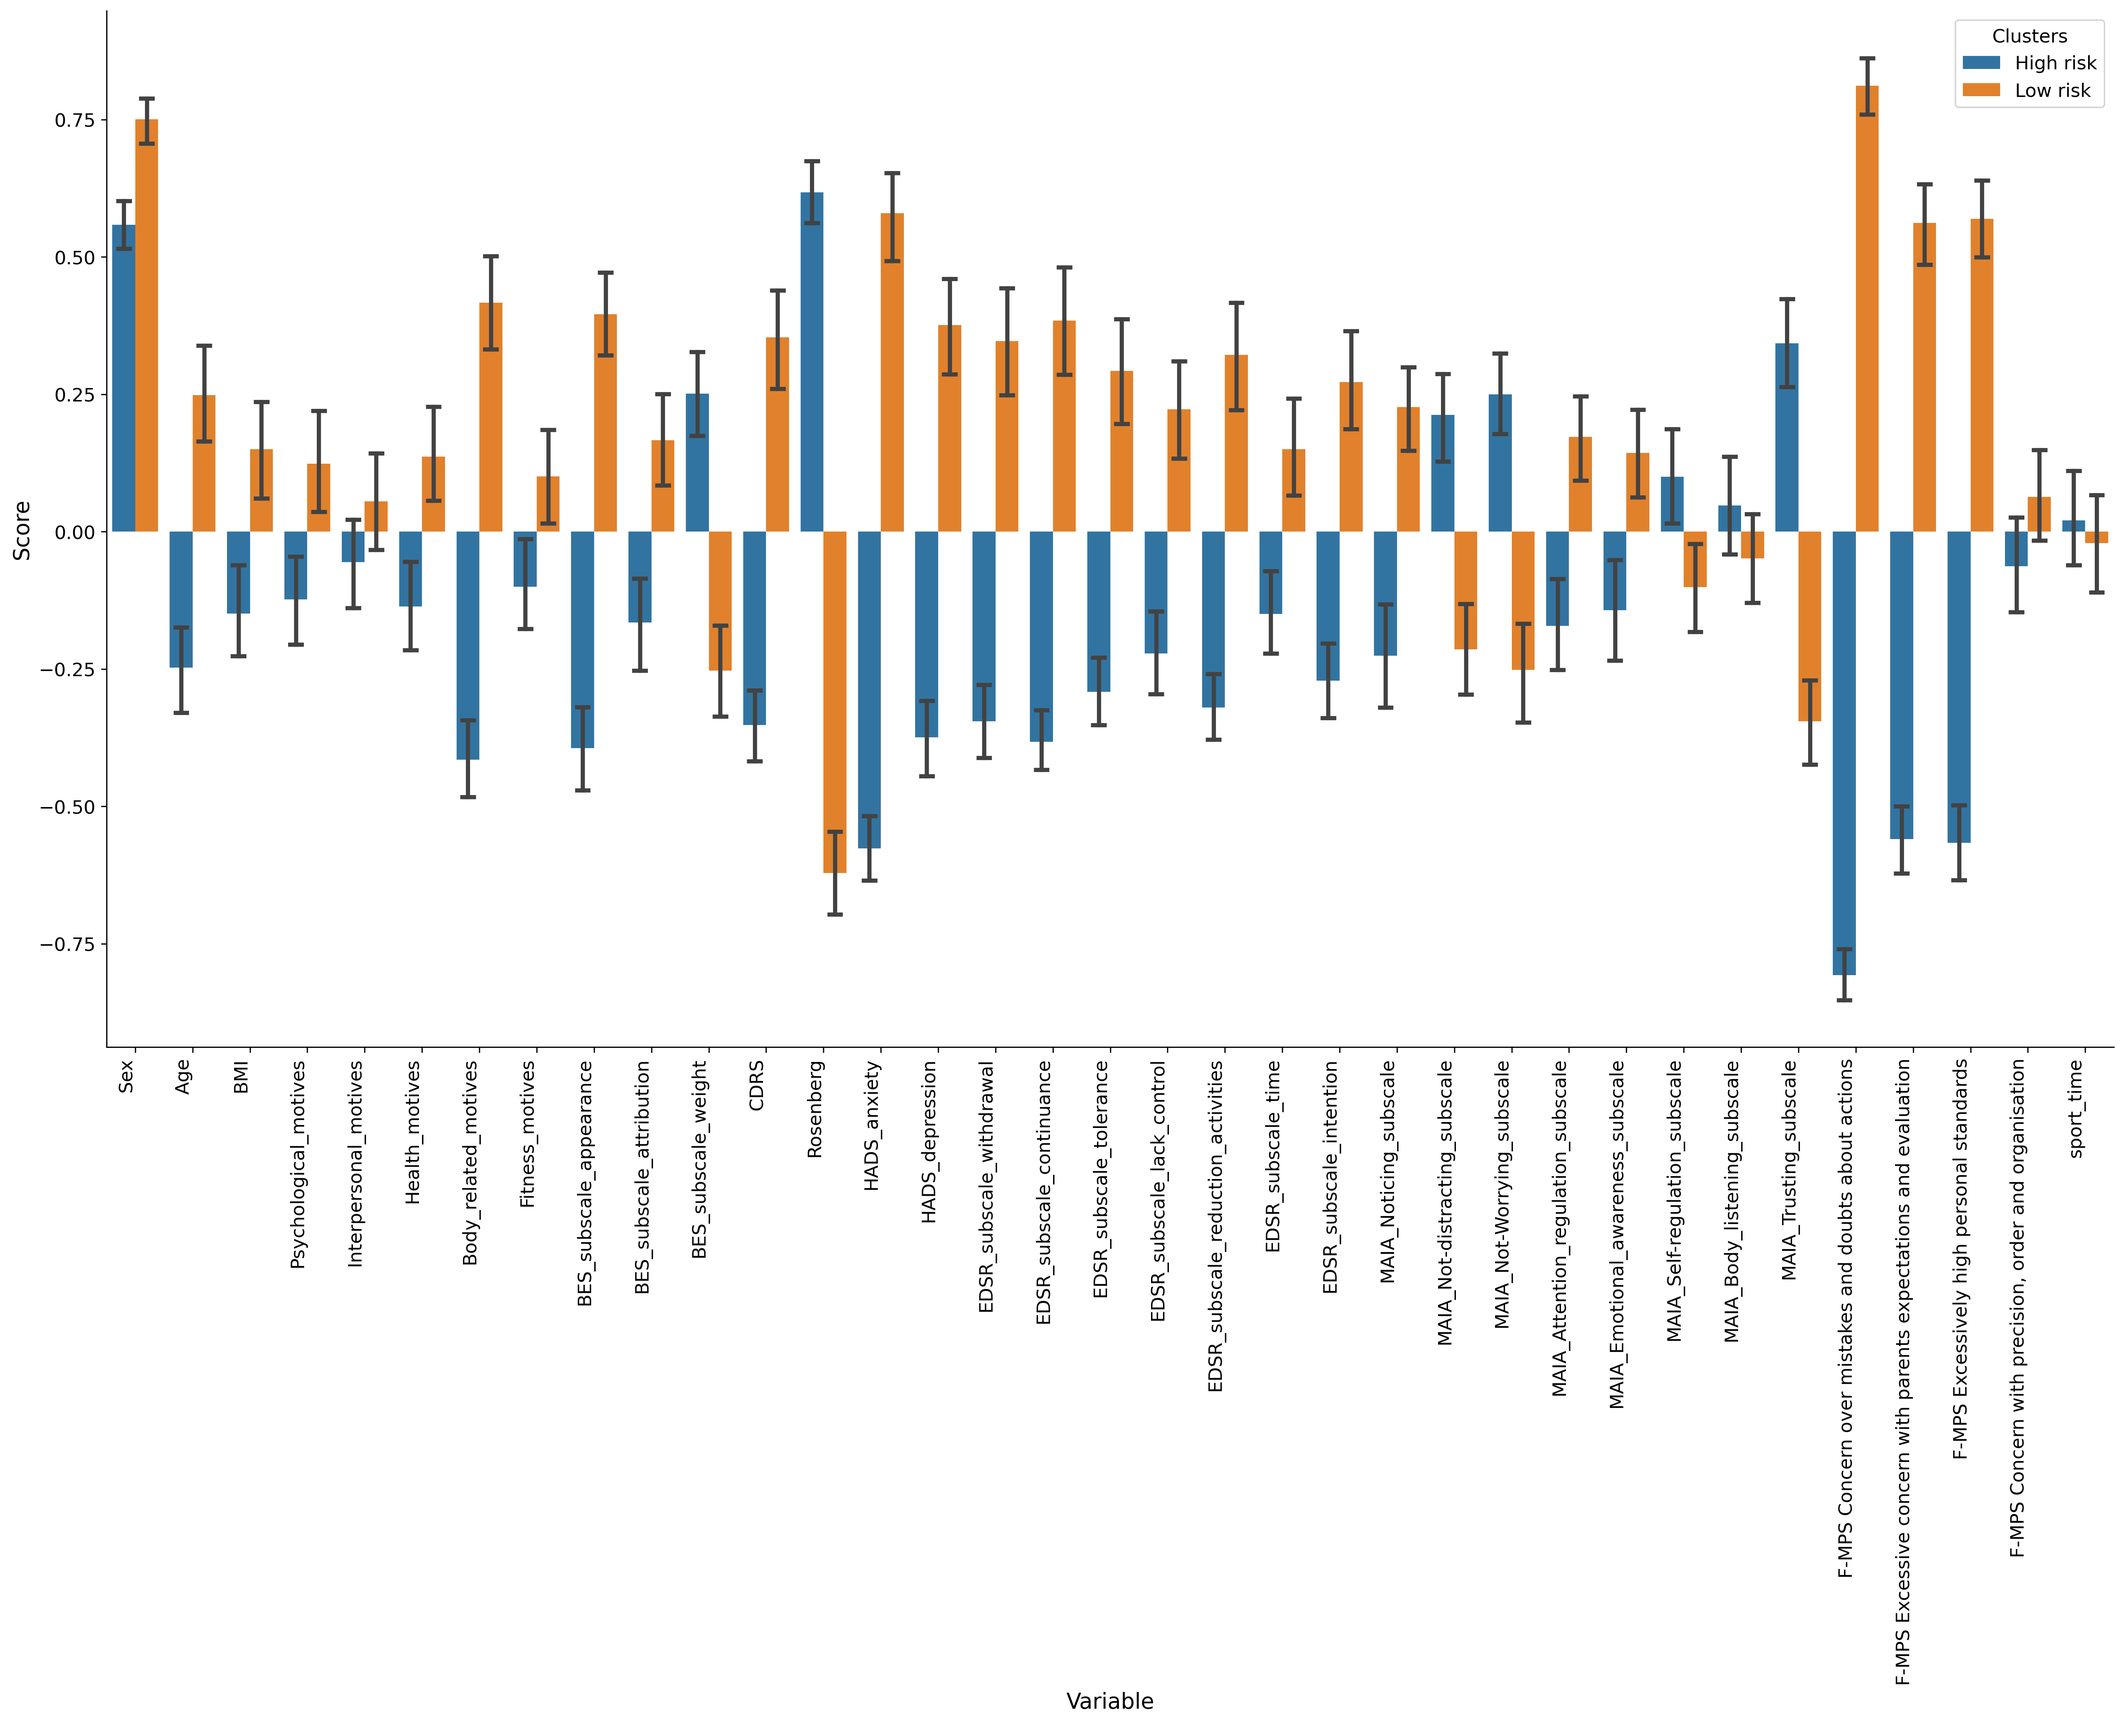
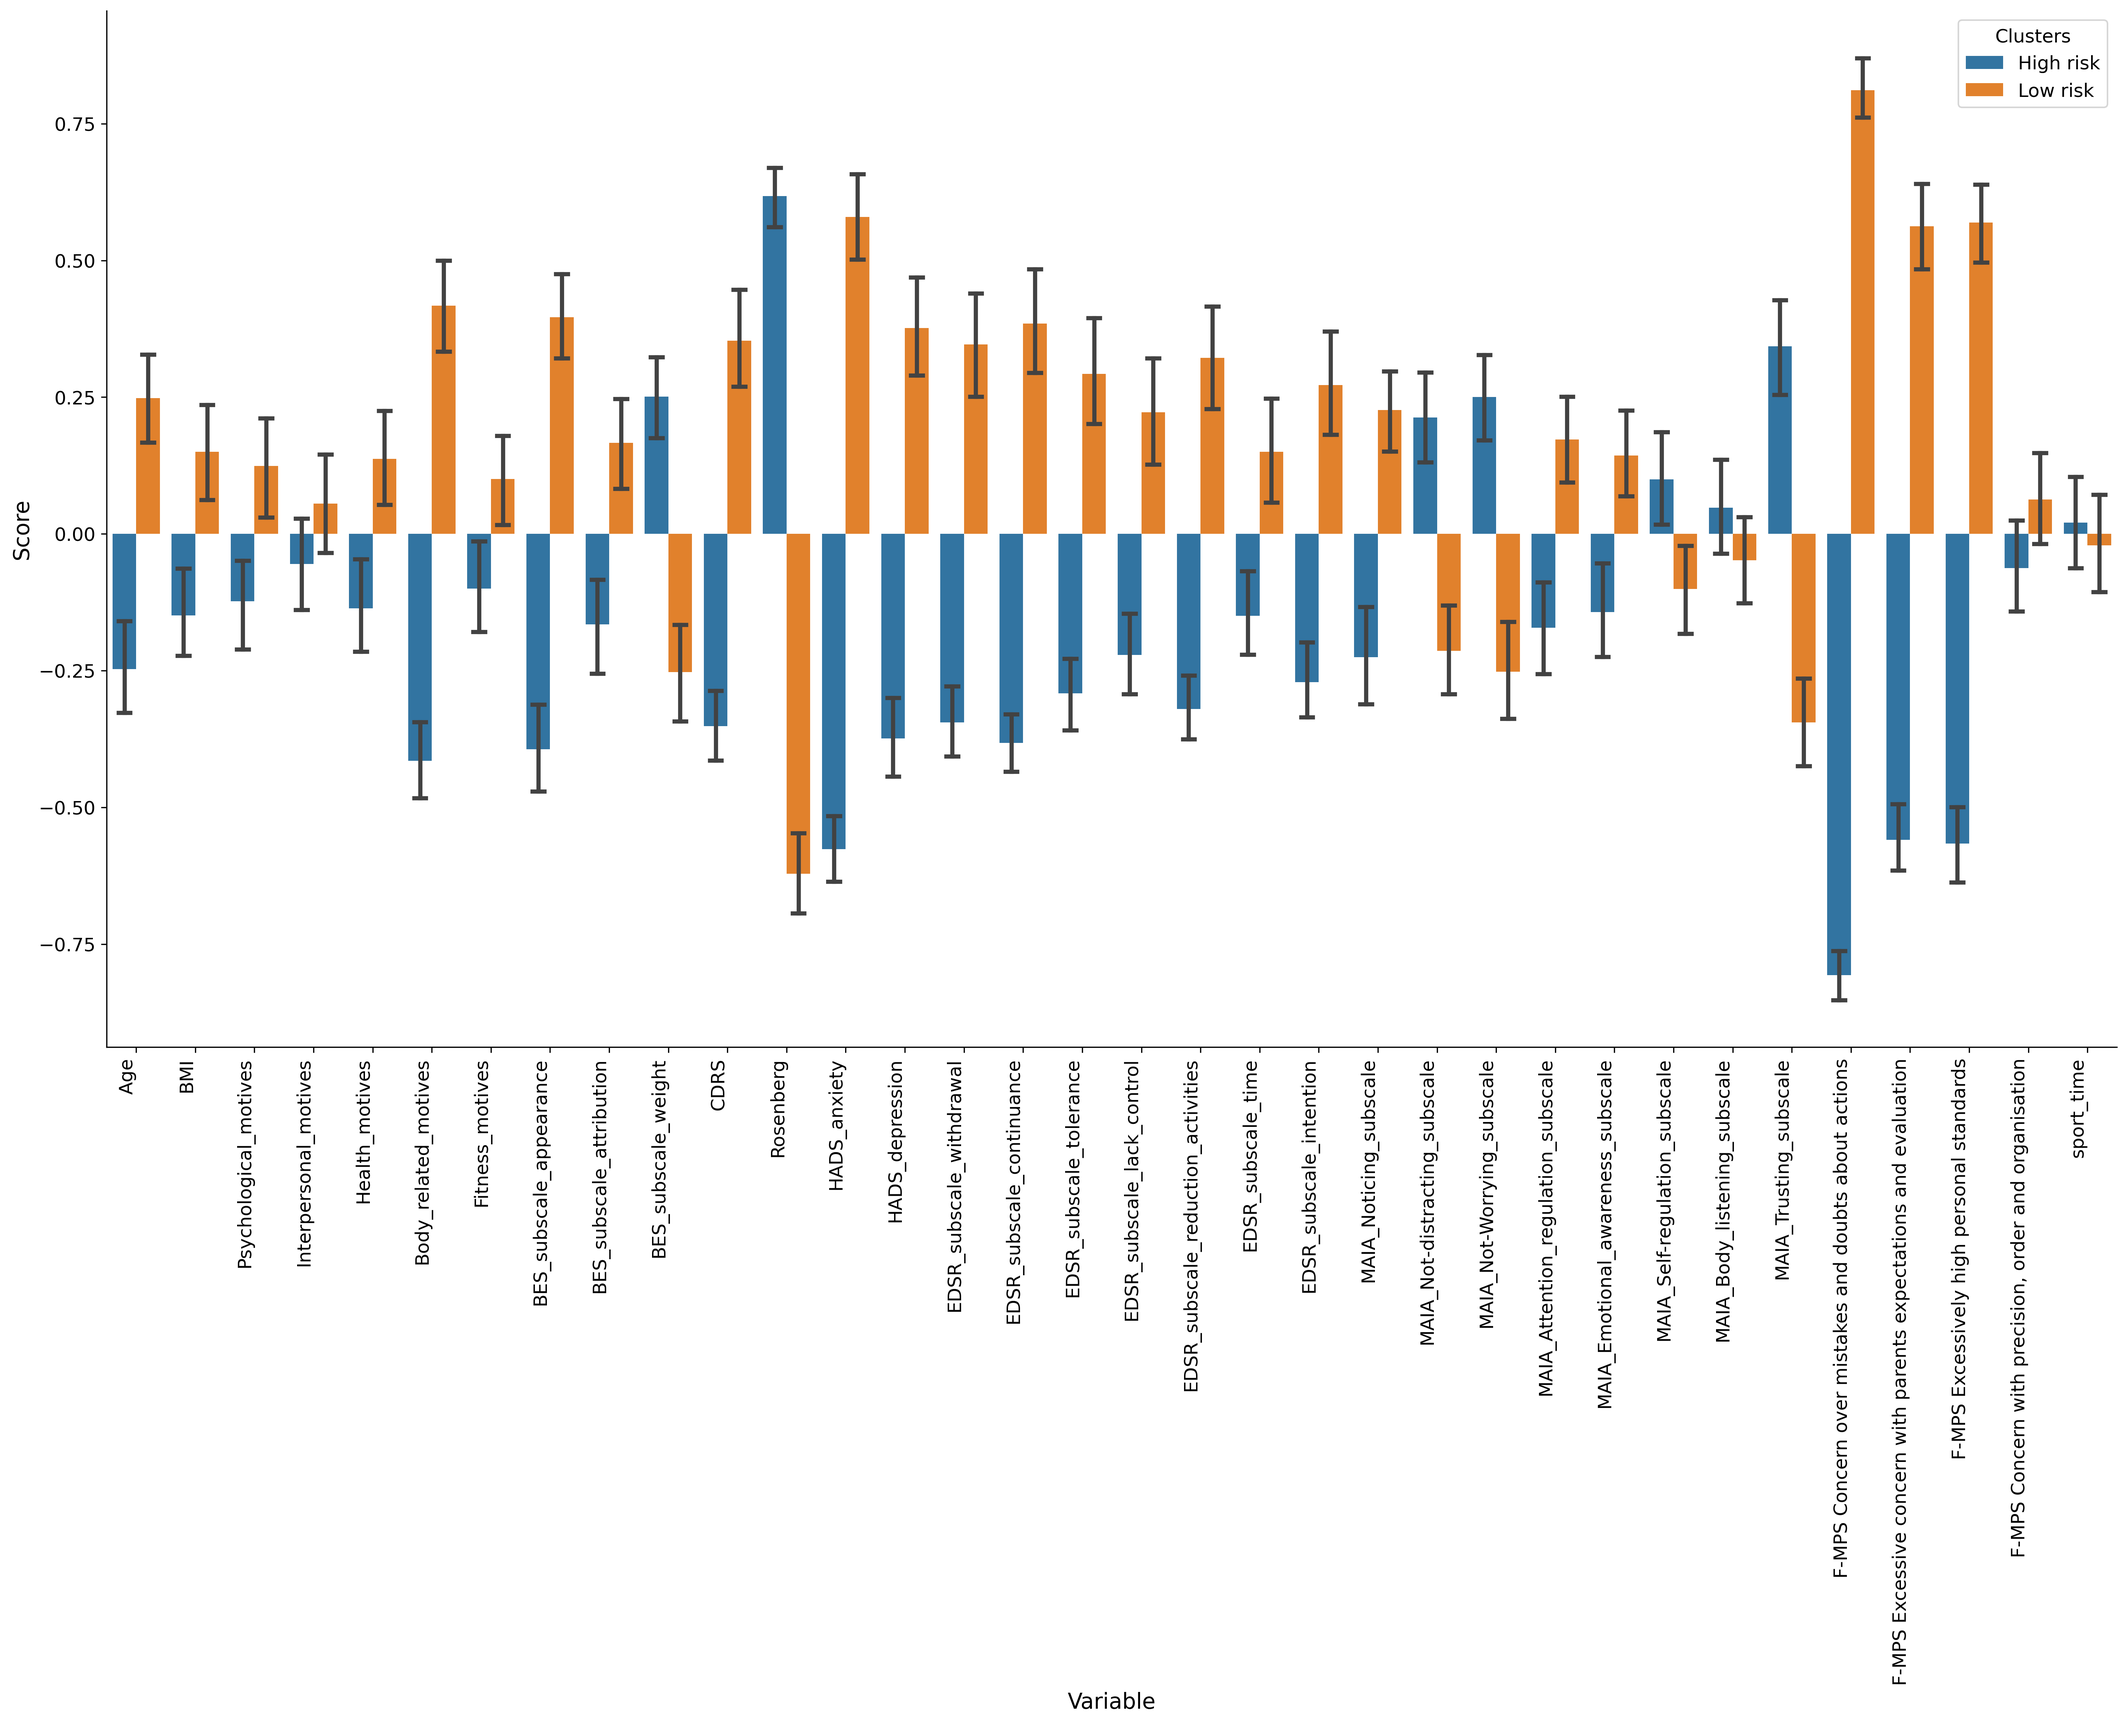
remove a variable for clustering

diff --git a/APPETIT/visualization_APPETIT.py b/APPETIT/visualization_APPETIT.py
@@ -49,7 +49,7 @@ df_low_risk.to_excel("created_df/df_low_risk.xlsx")
 assert df_high_risk.shape == (len(df_data[df_data["cluster"]=="High risk"]), len(df_data.columns))
 
 variable_names_included_in_clustering = [
-       'Sex','Age', 'BMI', 'Psychological_motives',
+       'Age', 'BMI', 'Psychological_motives',
        'Interpersonal_motives', 'Health_motives', 'Body_related_motives',
        'Fitness_motives', 'BES_subscale_appearance',
        'BES_subscale_attribution', 'BES_subscale_weight', 'CDRS', 'Rosenberg',
